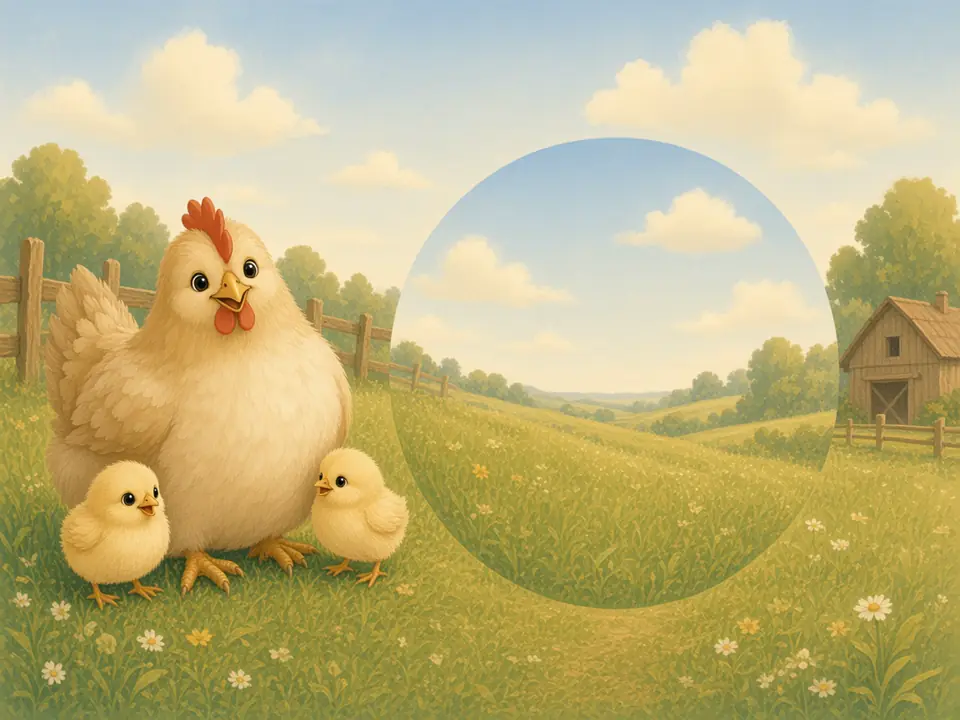
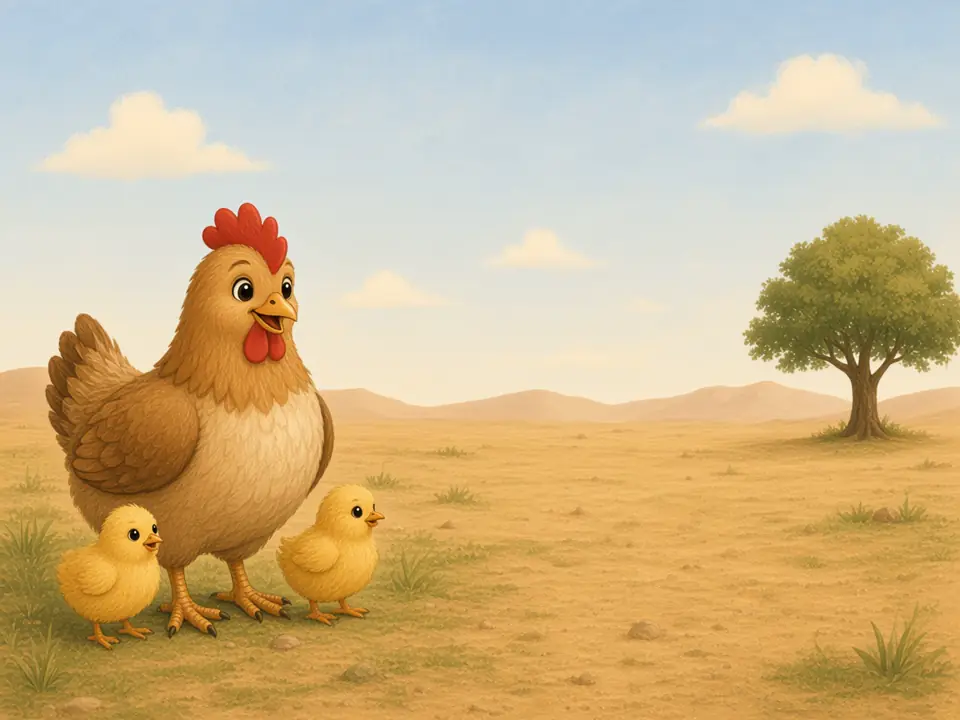
Shift Meet scenes to the side of the centered letter bubble.
Picture-word subjects sit in the side third so the face and body stay clear of the large centered fidel. The camel painting is unchanged.

diff --git a/docs/school-path.md b/docs/school-path.md
@@ -25,8 +25,9 @@ word is learned.
 
 On that first Meet card the picture-word painting (`public/art/meet`,
 original gouache) is the background, and the fidel stays a large centered
-bubble. The paintings leave the middle open so the animal or object is
-visible around that bubble. The Ge'ez word and English gloss stay under the
+bubble. Each painting puts the animal or object in the side third, with
+soft sky or meadow in the center so the face and body stay clear of that
+bubble. The Ge'ez word and English gloss stay under the
 card. The other six vowels in the family use the plain sky. Amharic Meet is
 unchanged.
 
